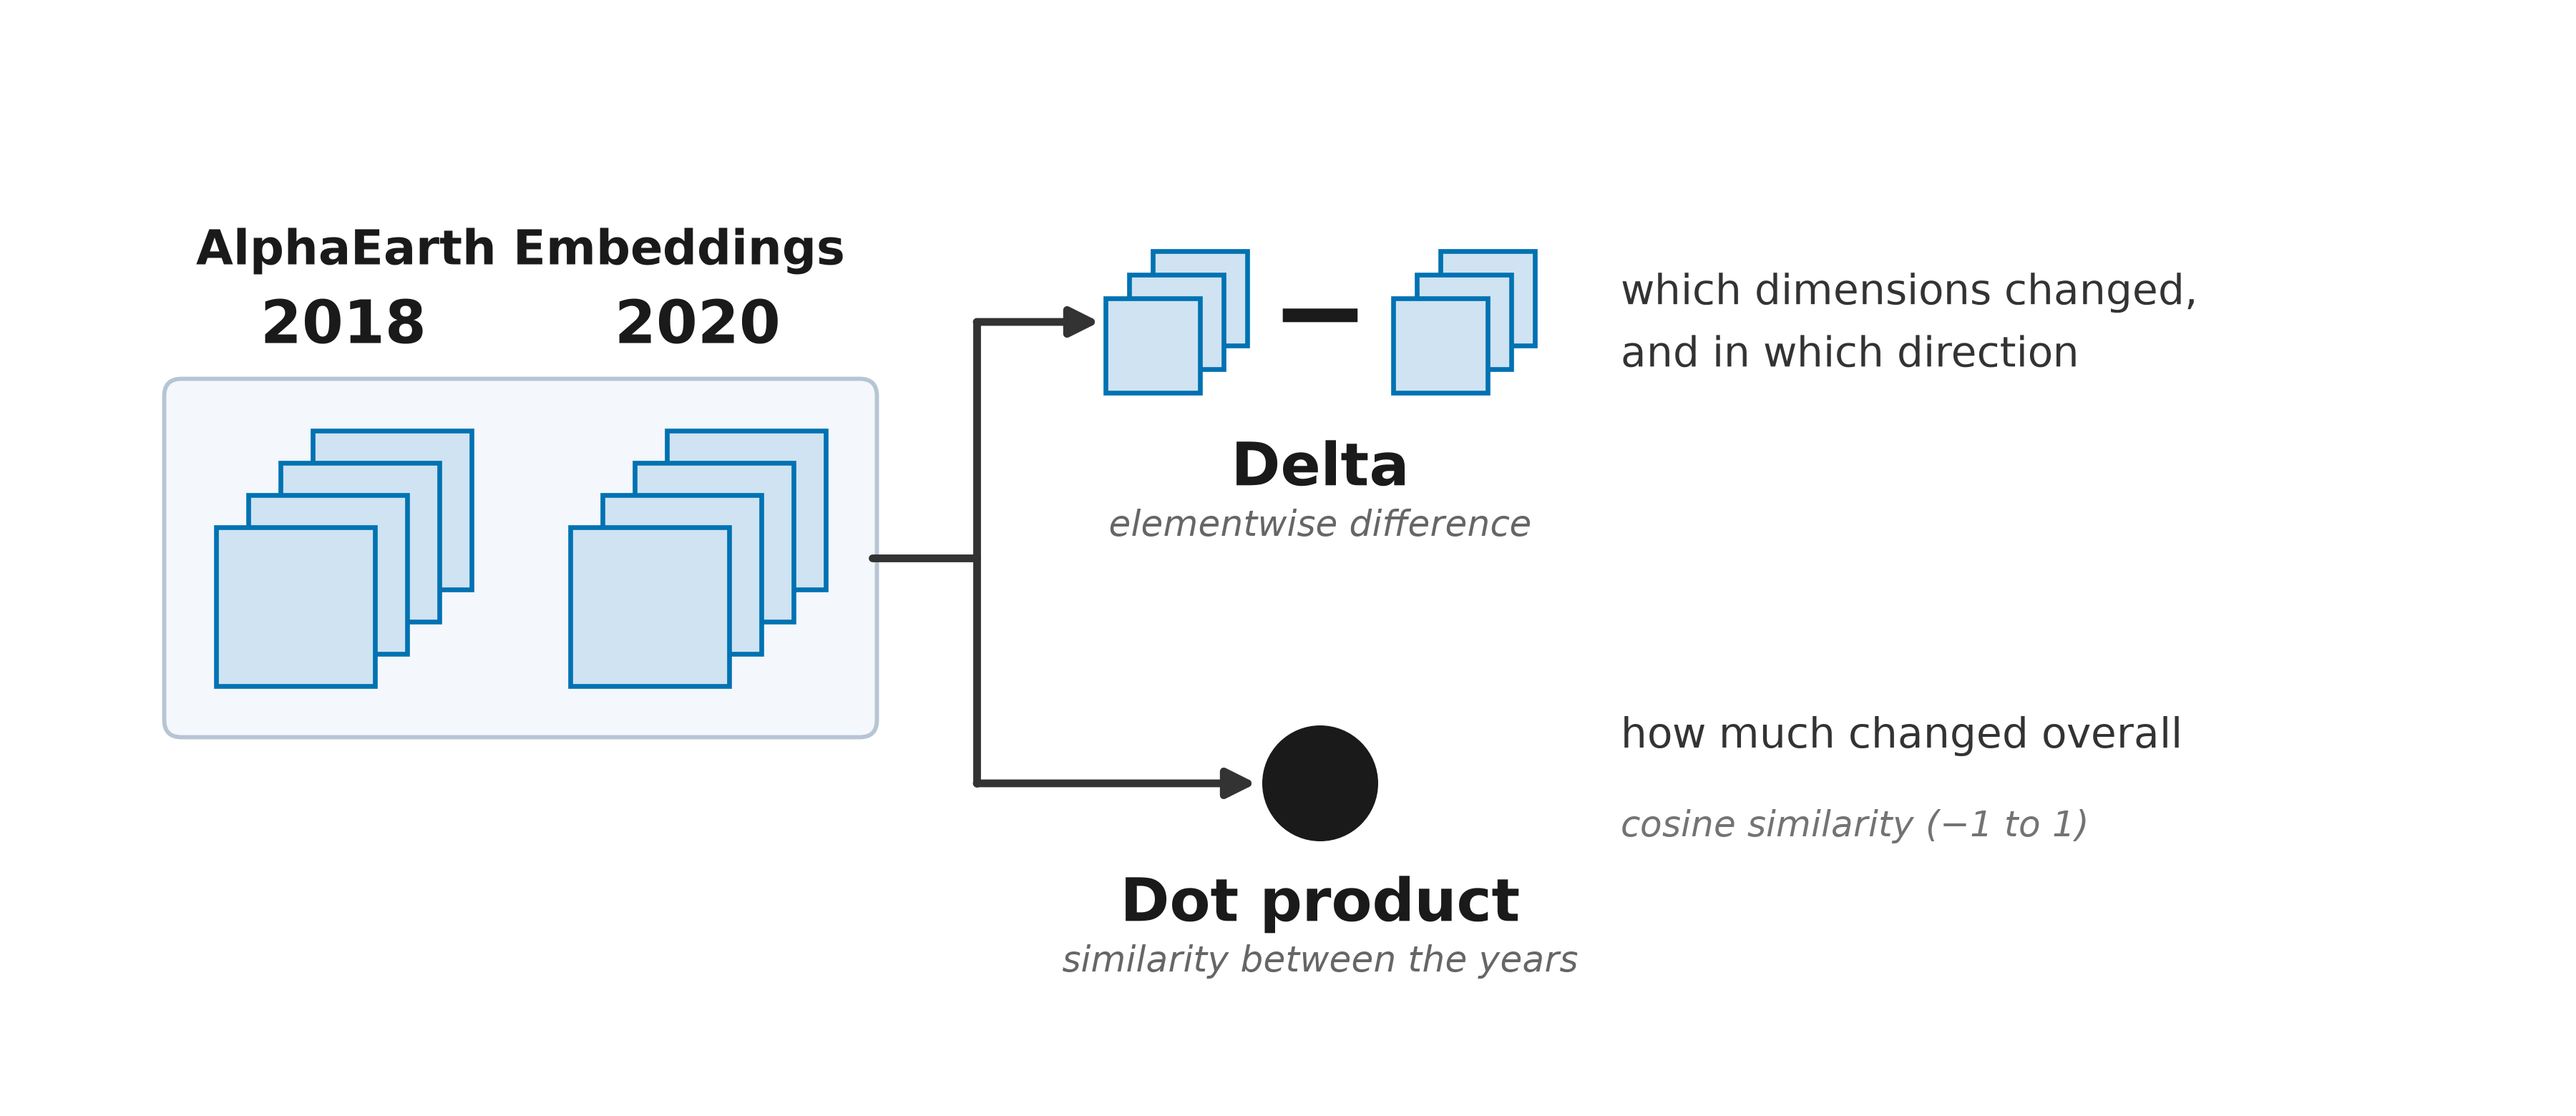
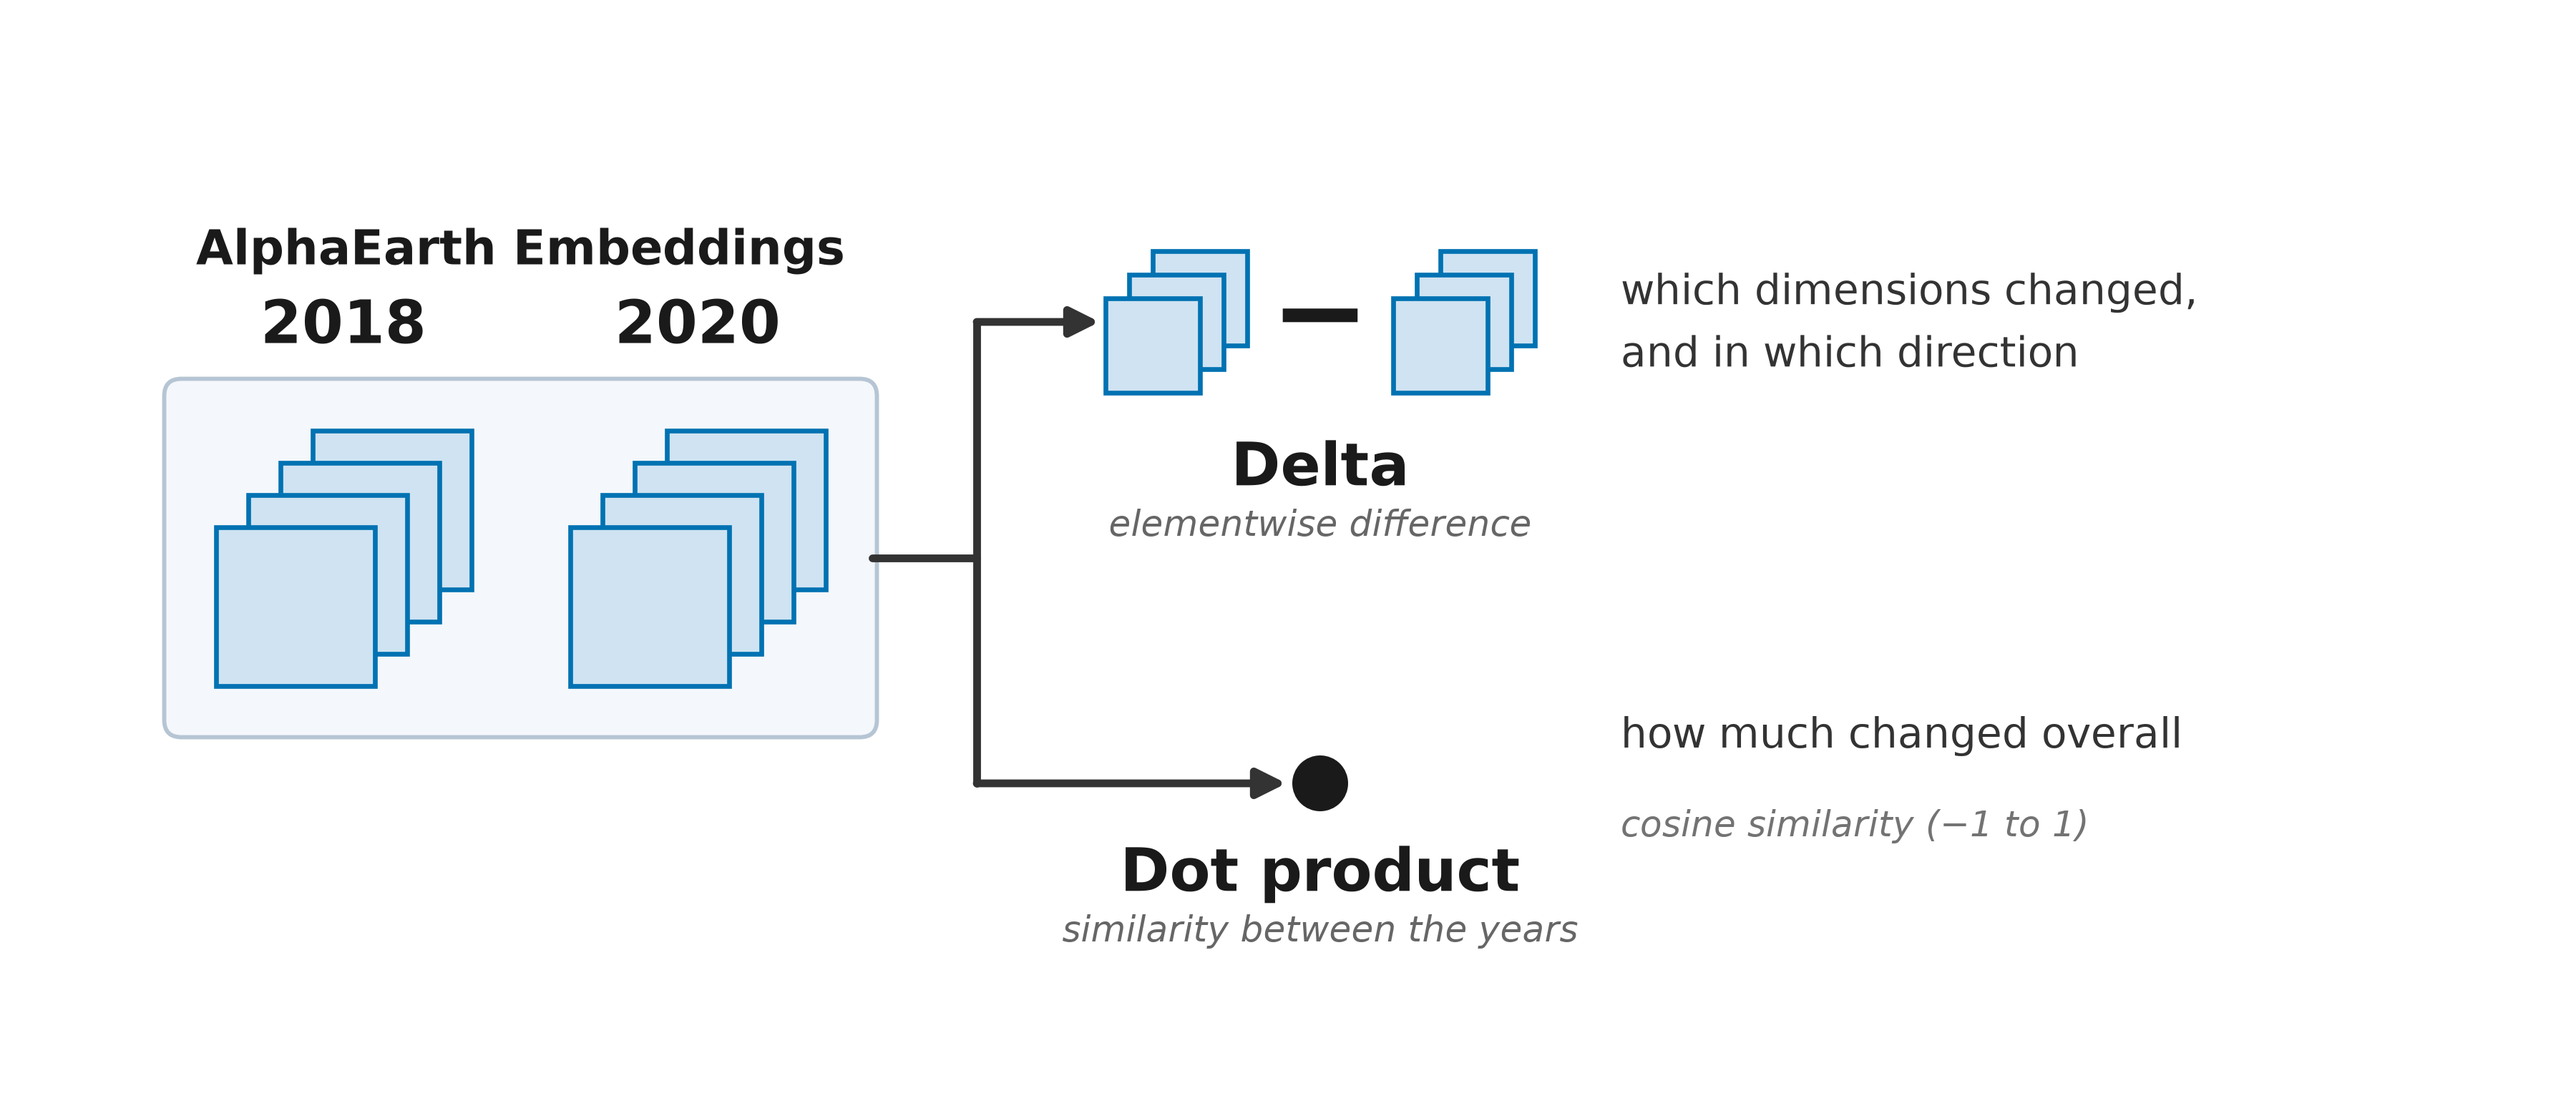
pres_15 v3: make the dot-product dot smaller

Changed region(s): [[0.4044, 0.6462, 0.6222, 0.8923]]

diff --git a/presentation/scripts/pres_15_embedding_ops_version_3.py b/presentation/scripts/pres_15_embedding_ops_version_3.py
@@ -36,7 +36,7 @@ S_IN, N_IN, OFF_IN = 0.74, 4, 0.15       # input stack: square side, count, per-
 S_SM, N_SM, OFF_SM = 0.44, 3, 0.11       # small stacks used in the delta subtraction
 FORK_X = 4.55
 SYM_CX = 6.15                            # x-center of the delta glyph and the dot
-DOT_R = 0.27
+DOT_R = 0.13
 ANN_X = 7.55
 
 
